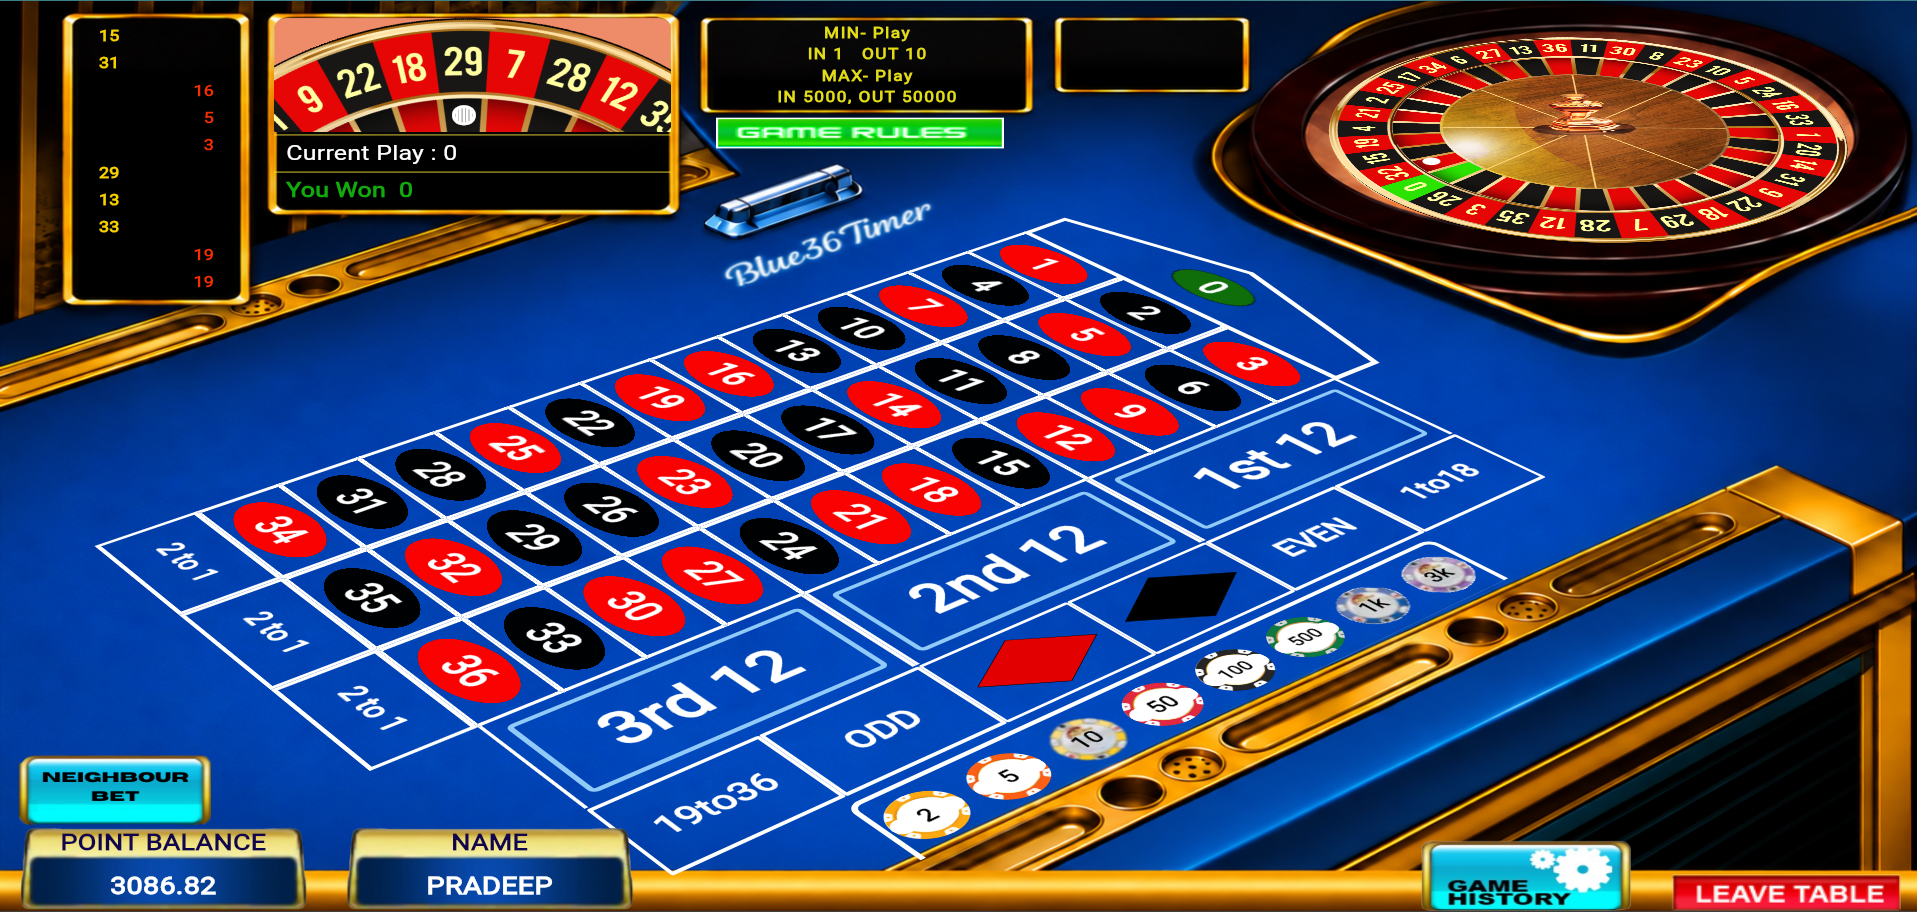
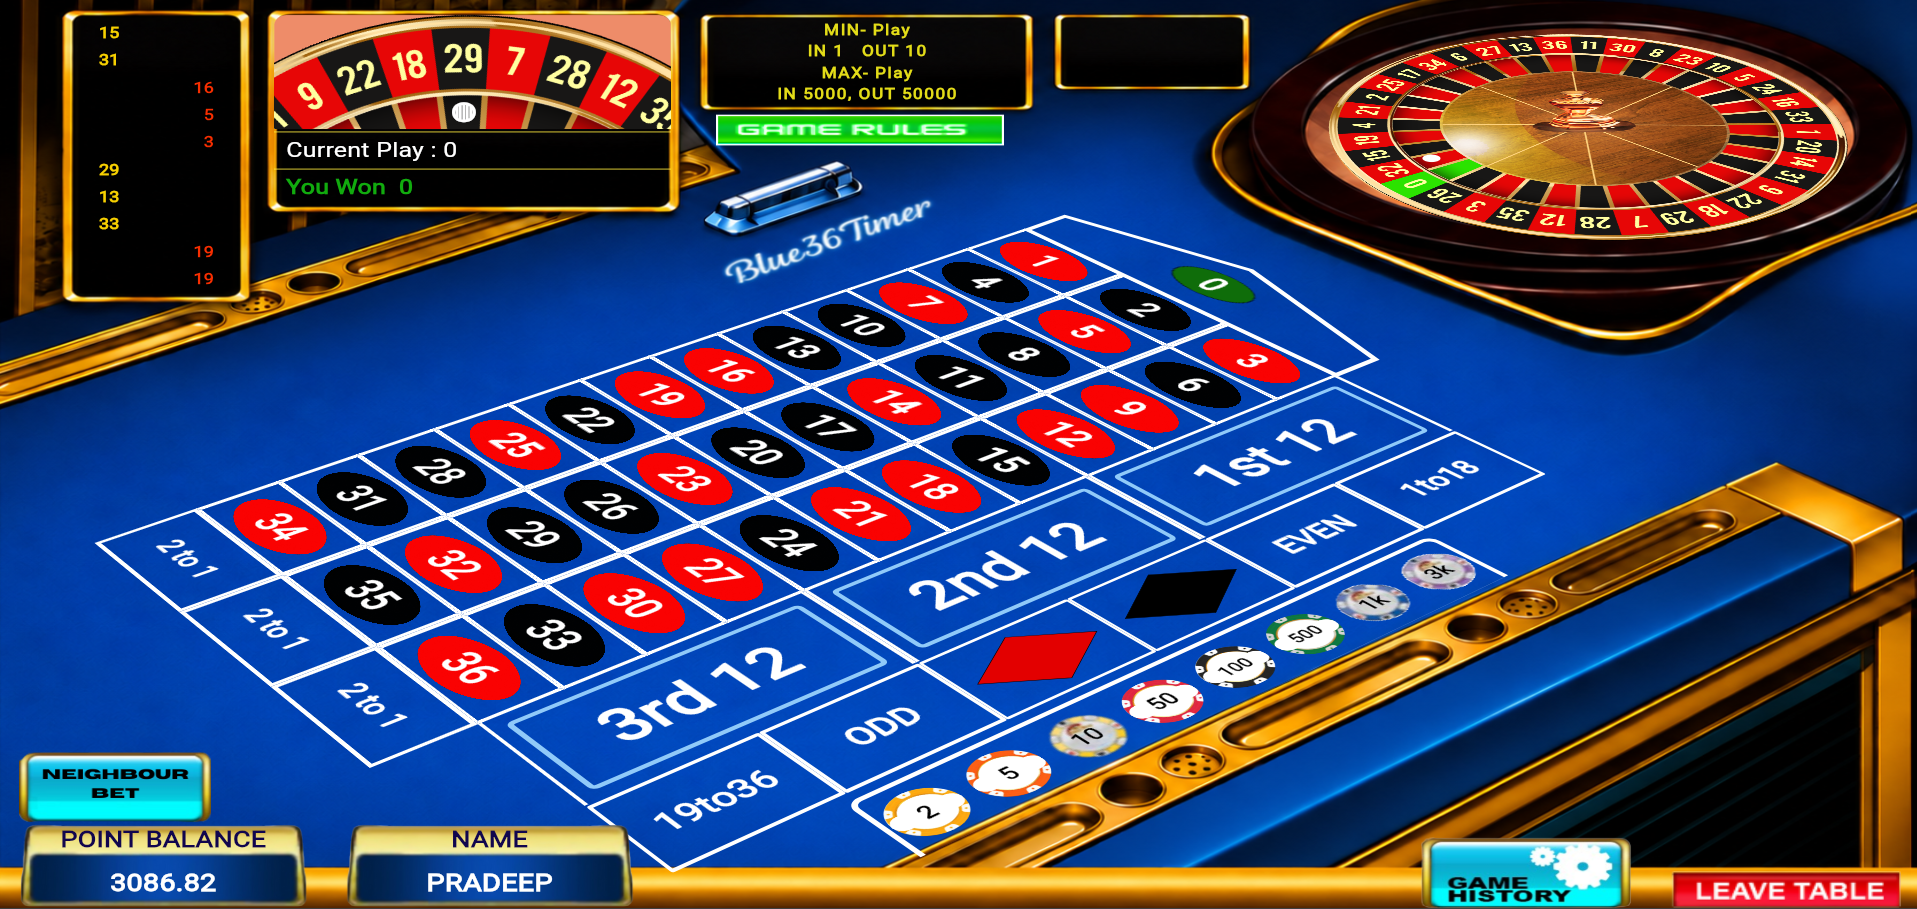
bets api

diff --git a/src/pages/roulette-mini-timer/RouletteMiniTimer.jsx b/src/pages/roulette-mini-timer/RouletteMiniTimer.jsx
@@ -1267,7 +1267,7 @@ function RouletteMiniTimer() {
 
 
         {/* HISTORY */}
-        <div className="pointer-events-none absolute rounded-lg left-[84px] top-[19px] bg-black z-10 flex h-[282px] w-[145px] flex-col p-[12px_14px] text-[18px] font-black leading-none">
+        <div className="pointer-events-none absolute rounded-lg left-[84px] top-[16px] bg-black z-10 flex h-[282px] w-[145px] flex-col p-[12px_14px] text-[18px] font-black leading-none">
           {historyList.map(
             ([number, side], index) => (
               <div
@@ -1282,7 +1282,7 @@ function RouletteMiniTimer() {
         </div>
 
         {/* CURRENT PLAY + YOU WON */}
-        <div className="pointer-events-none absolute left-[262px] top-[20px] z-10 flex h-[182px] w-[422px] flex-col p-[0px_12px]">
+        <div className="pointer-events-none absolute left-[262px] top-[15px] z-10 flex h-[182px] w-[422px] flex-col p-[0px_12px]">
           <div className="relative flex h-[122px] w-full overflow-hidden rounded-t-[10px]  bg-[#ea926b]">
             <div className="absolute left-[201px] h-[600px] w-[600px] -translate-x-1/2 origin-center">
               <img
@@ -1298,7 +1298,7 @@ function RouletteMiniTimer() {
               />
             </div>
 
-            <div className="pointer-events-none absolute left-[203px] top-[100px] z-20 h-[22px] w-[22px] -translate-x-1/2 -translate-y-1/2 rounded-full border-2 border-white bg-[radial-gradient(circle_at_35%_35%,#ffffff_0%,#ffffff_65%,#f1f5f9_85%,#cbd5e1_100%)]" />
+            <div className="pointer-events-none absolute left-[204px] top-[100px] z-20 h-[22px] w-[22px] -translate-x-1/2 -translate-y-1/2 rounded-full border-2 border-white bg-[radial-gradient(circle_at_35%_35%,#ffffff_0%,#ffffff_65%,#f1f5f9_85%,#cbd5e1_100%)]" />
           </div>
 
           <div className="flex flex-col justify-center">
@@ -1313,7 +1313,7 @@ function RouletteMiniTimer() {
         </div>
 
         {/* MIN / MAX PLAY */}
-        <div className="pointer-events-none absolute bg-black rounded-lg left-[706px] top-[21px] z-10 flex h-[88px] w-[322px] flex-col items-center justify-center text-center leading-[20px]">
+        <div className="pointer-events-none absolute bg-black rounded-lg left-[706px] top-[18px] z-10 flex h-[88px] w-[322px] flex-col items-center justify-center text-center leading-[20px]">
           <span className="text-[17px] font-semibold tracking-wide text-yellow-300">
             MIN- Play
           </span>
@@ -1332,7 +1332,7 @@ function RouletteMiniTimer() {
         </div>
 
         {/* WINNING NUMBER */}
-        <div className="pointer-events-none absolute left-[1060px] rounded-lg top-[22px] bg-black z-10 flex h-[68px] w-[186px] items-center justify-center">
+        <div className="pointer-events-none absolute left-[1060px] rounded-lg top-[17px] bg-black z-10 flex h-[68px] w-[186px] items-center justify-center">
           <span
             className="text-[54px] font-bold tracking-wider drop-shadow-[0_2px_4px_rgba(0,0,0,0.95)]"
             style={{
@@ -1351,7 +1351,7 @@ function RouletteMiniTimer() {
         </div>
 
         {/* MAIN WHEEL */}
-        <div className="pointer-events-none absolute left-[1590px] top-[116px] z-10 flex h-[515px] w-[645px] -translate-x-1/2 -translate-y-1/2 items-center justify-center">
+        <div className="pointer-events-none absolute left-[1589px] top-[113px] z-10 flex h-[515px] w-[645px] -translate-x-1/2 -translate-y-1/2 items-center justify-center">
           <div className="relative flex h-full w-full origin-center items-center justify-center [transform:perspective(1000px)_rotateX(66deg)_rotate(39deg)]">
             <div className="relative flex h-full w-full items-center justify-center origin-center">
               <div
@@ -1429,7 +1429,7 @@ function RouletteMiniTimer() {
             playGameTapSound()
             // setIsRulesOpen(true)
           }}
-          className="absolute left-[44.8%] top-[14.6%] z-30 flex h-[32px] w-[290px] -translate-x-1/2 -translate-y-1/2 cursor-pointer items-center justify-center transition hover:scale-105 active:scale-100"
+          className="absolute left-[44.8%] top-[14.3%] z-30 flex h-[32px] w-[290px] -translate-x-1/2 -translate-y-1/2 cursor-pointer items-center justify-center transition hover:scale-105 active:scale-100"
 
         >
           <img

diff --git a/src/utils/sound.js b/src/utils/sound.js
@@ -4,6 +4,7 @@ import rouletteWheelNewSoundFile from '../assets/sounds/roulette_wheel_new.mp3'
 import blueWheelSoundFile from '../assets/sounds/blue_wheel.mp3'
 import coinSplash from '../assets/sounds/coin_splash.mp3'
 import placeChipSound from '../assets/sounds/placechip.mp3'
+import moveChakraSoundFile from '../assets/sounds/movechakra.mp3'
 
 let tapAudio = null
 let lastPlayTime = 0
@@ -20,7 +21,7 @@ export const playGameTapSound = () => {
     tapAudio.play().catch(() => {})
     lastPlayTime = now
   } catch (e) {
-    // Autoplay restrictions or unsupported audio
+    console.log(e)
   }
 }
 
@@ -34,7 +35,7 @@ export const playTickSound = () => {
     tickAudio.currentTime = 0
     tickAudio.play().catch(() => {})
   } catch (e) {
-    // Autoplay restrictions or unsupported audio
+    console.log(e)
   }
 }
 
@@ -45,7 +46,7 @@ export const stopTickSound = () => {
       tickAudio.currentTime = 0
     }
   } catch (e) {
-    // Autoplay restrictions or unsupported audio
+    console.log(e)
   }
 }
 
@@ -59,7 +60,7 @@ export const playRouletteWheelSound = () => {
     rouletteWheelAudio.currentTime = 0
     rouletteWheelAudio.play().catch(() => {})
   } catch (e) {
-    // Autoplay restrictions or unsupported audio
+    console.log(e)
   }
 }
 
@@ -70,7 +71,7 @@ export const stopRouletteWheelSound = () => {
       rouletteWheelAudio.currentTime = 0
     }
   } catch (e) {
-    // Autoplay restrictions or unsupported audio
+    console.log(e)
   }
 }
 
@@ -84,7 +85,7 @@ export const playBlueWheelSound = () => {
     blueWheelAudio.currentTime = 0
     blueWheelAudio.play().catch(() => {})
   } catch (e) {
-    // Autoplay restrictions or unsupported audio
+    console.log(e)
   }
 }
 
@@ -95,11 +96,11 @@ export const stopBlueWheelSound = () => {
       blueWheelAudio.currentTime = 0
     }
   } catch (e) {
-    // Autoplay restrictions or unsupported audio
+    console.log(e)
   }
 }
 
-import moveChakraSoundFile from '../assets/sounds/movechakra.mp3'
+
 
 let moveChakraAudio = null
 
@@ -111,7 +112,7 @@ export const playMoveChakraSound = () => {
     moveChakraAudio.currentTime = 0
     moveChakraAudio.play().catch(() => {})
   } catch (e) {
-    // Autoplay restrictions or unsupported audio
+  console.log(e)
   }
 }
 
@@ -122,7 +123,7 @@ export const stopMoveChakraSound = () => {
       moveChakraAudio.currentTime = 0
     }
   } catch (e) {
-    // Autoplay restrictions or unsupported audio
+    console.log(e)
   }
 }
 
@@ -148,6 +149,6 @@ export const playPlaceChipSound = () => {
     placeChipAudio.currentTime = 0
     placeChipAudio.play().catch(() => {})
   } catch (e) {
-    // Autoplay restrictions or unsupported audio
+    console.log(e)
   }
 }

diff --git a/src/services/deviceSession.js b/src/services/deviceSession.js
@@ -26,7 +26,7 @@ export const checkLoginToServer = (onSessionExpired) => {
   socket.on("connect", () => {
     console.log("Device session socket connected:", socket.id);
 
-    // EXACTLY Flutter jaisa payload
+  
     socket.emit(DEVICE_EVENT_NAME, {
       user_id: userId,
     });
